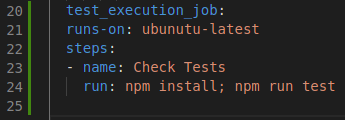
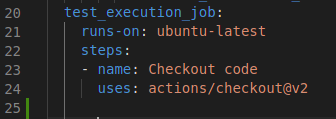
Artifacts job

diff --git a/README.md b/README.md
@@ -45,13 +45,57 @@ Tras esto, hacemos un push para comprobar que se ejecuta correctamente:
 Creamos un job que se encargará de ejecutar y validar los tests que hemos creado en la aplicación:
 
 ```
+Ejecutará Checkout code creado anteriormente
+```
+![Alt text](/img/6.png)
+
+```
 Correrá en un ubuntu latest
 ```
 ```
 Ejecutará npm install && npm run test
 ```
 
-![Alt text](/img/6.png)
+![Alt text](/img/7.png)
 
 Una vez hecho el push, comprobamos que funciona correctamente
 
+![Alt text](/img/8.png)
+
+## Job de generación de estáticos
+
+_Los artefactos de compilación son archivos producidos por una compilación. Normalmente, estos incluyen paquetes de distribución, archivos WAR, informes, archivos de registro, etc._
+
+Para generar los artifacts, deberemos crear un job con las siguientes caracteristicas:
+
+```
+Correra en un ubuntu-latest
+```
+```
+Dependerá de los dos jobs anteriores (syntax cehckout && test_execution)
+```
+```
+Realizará un checkout code
+```
+![Alt text](/img/9.png)
+
+Generará los statics con:
+
+```
+npm install
+```
+```
+npm run buildDev
+```
+
+![Alt text](/img/10.png)
+
+El proyecto minificado por buildDev se encontrará en la carpeta "build", que será donde depositaremos los artifacts generados
+
+```
+path: ./build
+```
+
+![Alt text](/img/11.png)
+
+Tras realizar los pasos anteriores, hacemos un push y comprobamos que funciona correctamente
